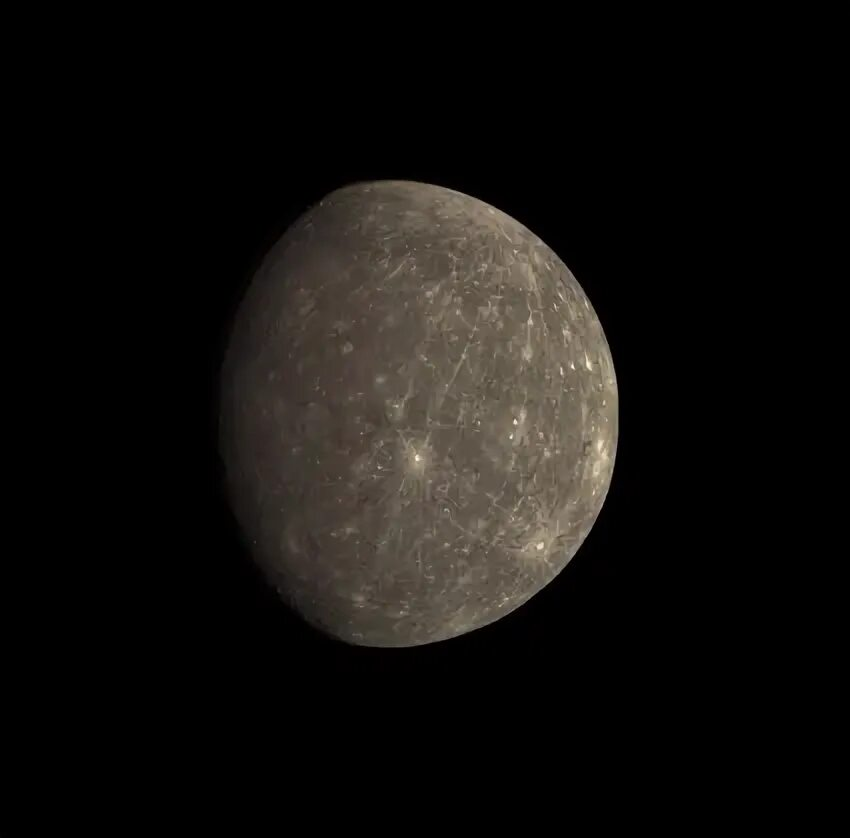
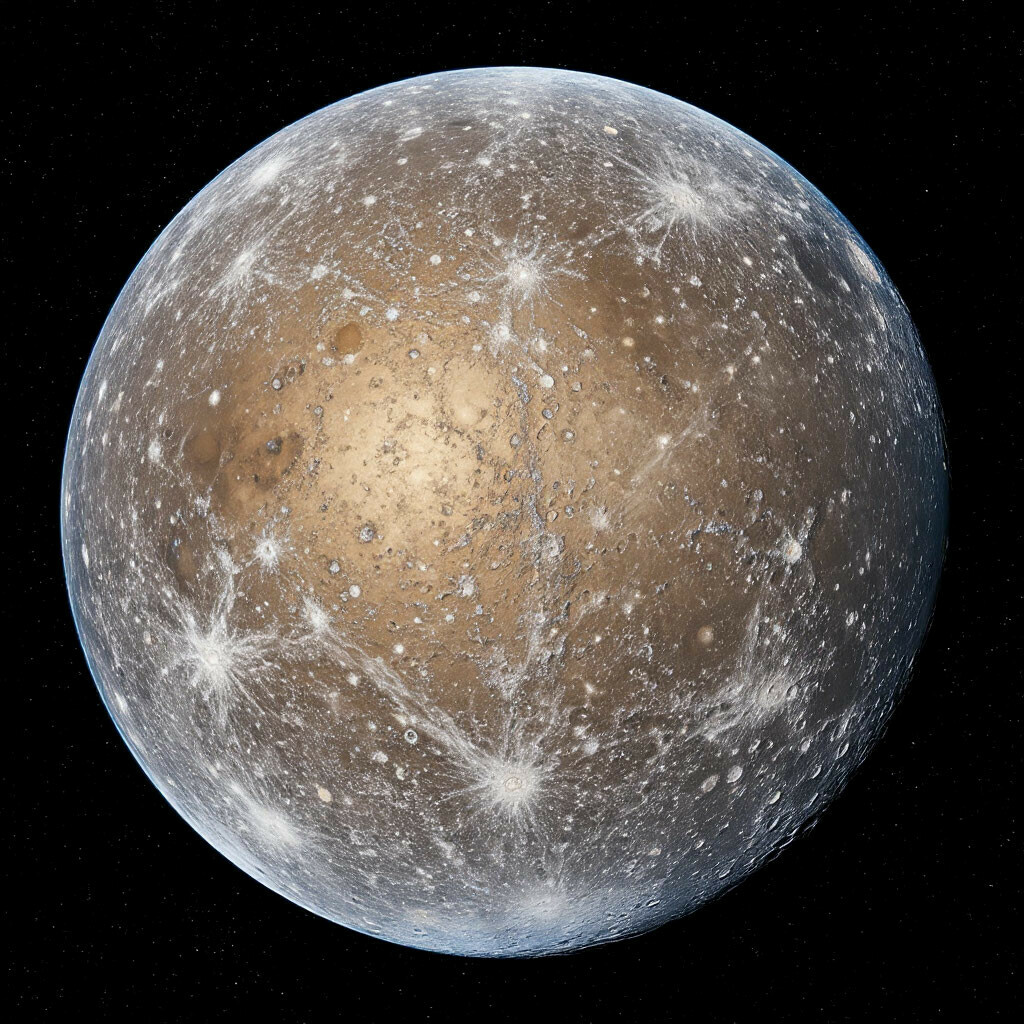
добавлены все планеты земной группы! покупайте.

diff --git a/styles.css b/styles.css
@@ -1,3 +1,6 @@
+body {
+    background-image: url("images/background.png");
+}
 
 a {color: blue;}
 a:hover {color: aqua;}
@@ -6,9 +9,9 @@ a:visited {color: blueviolet;}
 
 header {
     font-family: 'Franklin Gothic Medium', 'Arial Narrow', Arial, sans-serif;
+    color: white;
     width: auto;
     text-align: center;
-    background-color: #dddddd
 }
 
 main {
@@ -20,20 +23,48 @@ main {
 footer {
     font-family: 'Trebuchet MS', 'Lucida Sans Unicode', 'Lucida Grande', 'Lucida Sans', Arial, sans-serif;
     text-align: center;
+    color: white;
+    background-color: #444444;
+    border: 2px solid gray;
+    padding: 10px;
+    margin: 5px;
 }
 
 .planet {
     height: auto;
     column-count: 2;
+    padding: 10px;
+    margin: 5px;
 }
 
-#earth {
-    background-color: lawngreen;
+.photo {
+    width: 300px;
+    margin: 10px;
+    border-style: dotted;
+    border-color: gray;
 }
 
 #mercury {
     background-color: orange;
+    border: orangered;
+    border-style: groove;
 }
+#venus {
+    background-color: yellow;
+    border: orange;
+    border-style: groove;
+}
+#earth {
+    background-color: lawngreen;
+    border: green;
+    border-style: groove;
+}
+#mars {
+    background-color: red;
+    border: brown;
+    border-style: groove;
+}
+
 
 #products {
     display: grid;
@@ -43,6 +74,9 @@ footer {
 #partners {
     text-align: left;
     background-color: #dddddd;
+    border: 2px solid gray;
+    padding: 10px;
+    margin: 5px;
 }
 
 li:empty {
@@ -51,12 +85,3 @@ li:empty {
     background-color: black;
 }
 
-.cursed {
-    color: red;
-    text-decoration: line-through;
-}
-
-.uncursed {
-    color: green;
-    text-decoration: underline;
-}

diff --git a/index.html b/index.html
@@ -16,19 +16,29 @@
             <p>Здесь вы можете выгодно приобрести планету</p>
         </section>
         <section id="products">
-            <div class="planet" id="earth">
-                <h3>Земля</h3>
-                <p>Земля - третья планета от солнца. Населена людишками, потому и стоит так дешево. Лично я рекомендую вычистить эти штуки чем-нибудь подходяжим. Но у этой планеты есть и хорошие стороны - ее атмосфара состоит из почти уникальной смеси азота, кислорода и двуокиси углерода. Я бы купил только ради этого.</p>
-                <img src="images/earth.png" width="200" alt="Земля">
-            </div>
             <div class="planet" id="mercury">
-                <h3>Меркурий</h3>
+                <h1>Меркурий</h1>
                 <p>Меркурий - первая планета от солнца, на ней довольно жарко, но она богата относительно полезными ресурсами. Если вам нужно железо, то меркурий будет хорошим выбором для вас. Учитывайте, что планета небольшая, а еще на ней довольно жесткие перепады температур. Но железное ядро стоит того.</p>
-                <img src="images/mercury.png" width="200" alt="Меркурий">
+                <img src="images/mercury.png" width="200" alt="Меркурий" class="photo">
+            </div>
+            <div class="planet" id="venus">
+                <h1>Вненера</h1>
+                <p>Венера - уникальна, потому стоит немалых денег. Год на ней быстрее суток, а вращается она против часовой стрелки (в отличие от остальных планет). У нее очень маленький угол наклона, высокие температура и давление. Есть облака из серной кислоты, а угол наклона всего 3 градуса</p>
+                <img src="images/venus.png" width="200" alt="Венера" class="photo">
+            </div>
+            <div class="planet" id="earth">
+                <h1>Земля</h1>
+                <p>Земля - единственная населенная планета. Населена людишками, потому и стоит так дешево. Лично я рекомендую вычистить эти штуки чем-нибудь подходяжим. Но у этой планеты есть и хорошие стороны - ее атмосфара состоит из почти уникальной смеси азота, кислорода и двуокиси углерода. Я бы купил только ради этого. А еще у нее спутник есть</p>
+                <img src="images/earth.png" width="200" alt="Земля" class="photo">
+            </div>
+            <div class="planet" id="mars">
+                <h1>Марс</h1>
+                <p>Марс - красный шарик, последний из "земной группы". Возможно когда-то он был населен, хз. В общем условия на нем почти как на земле, только атмосферы нормальной нет (и людей, поэтому стоит дороже). Имеет два преславутых спутника, но они не особо интересны. Кстати красный он из-за оксида железа.</p>
+                <img src="images/mars.png" width="200" alt="Марс" class="photo">
             </div>
         </section>
         <article id="partners">
-            <p>Список наших партнеров:</p>
+            <h1>Список наших партнеров:</h1>
             <ol>
                 <li><a href="https://www.mit.edu/">Сайт Массачусетского Технологического Института</a></li>
                 <li><a href="https://scpfoundation.net/">Некоммерческий фонд SCP Foundation</a></li>
@@ -43,8 +53,6 @@
         </article>
     </main>
     <footer>
-        <p class="cursed">*На данный момент среди товаров доступна только Земля</p>
-        <p class="uncursed">*Теперь в ассортименте есть еще и Меркурий!</p>
         <p>Все еще не знаете о планетах? Тогда вам <a href="https://ru.wikipedia.org/wiki/Солнечная_система" target="_blank">сюда</a></p>
         <p><i>Все права защищены, а нас вы все-равно не найдете</i></p>
     </footer>